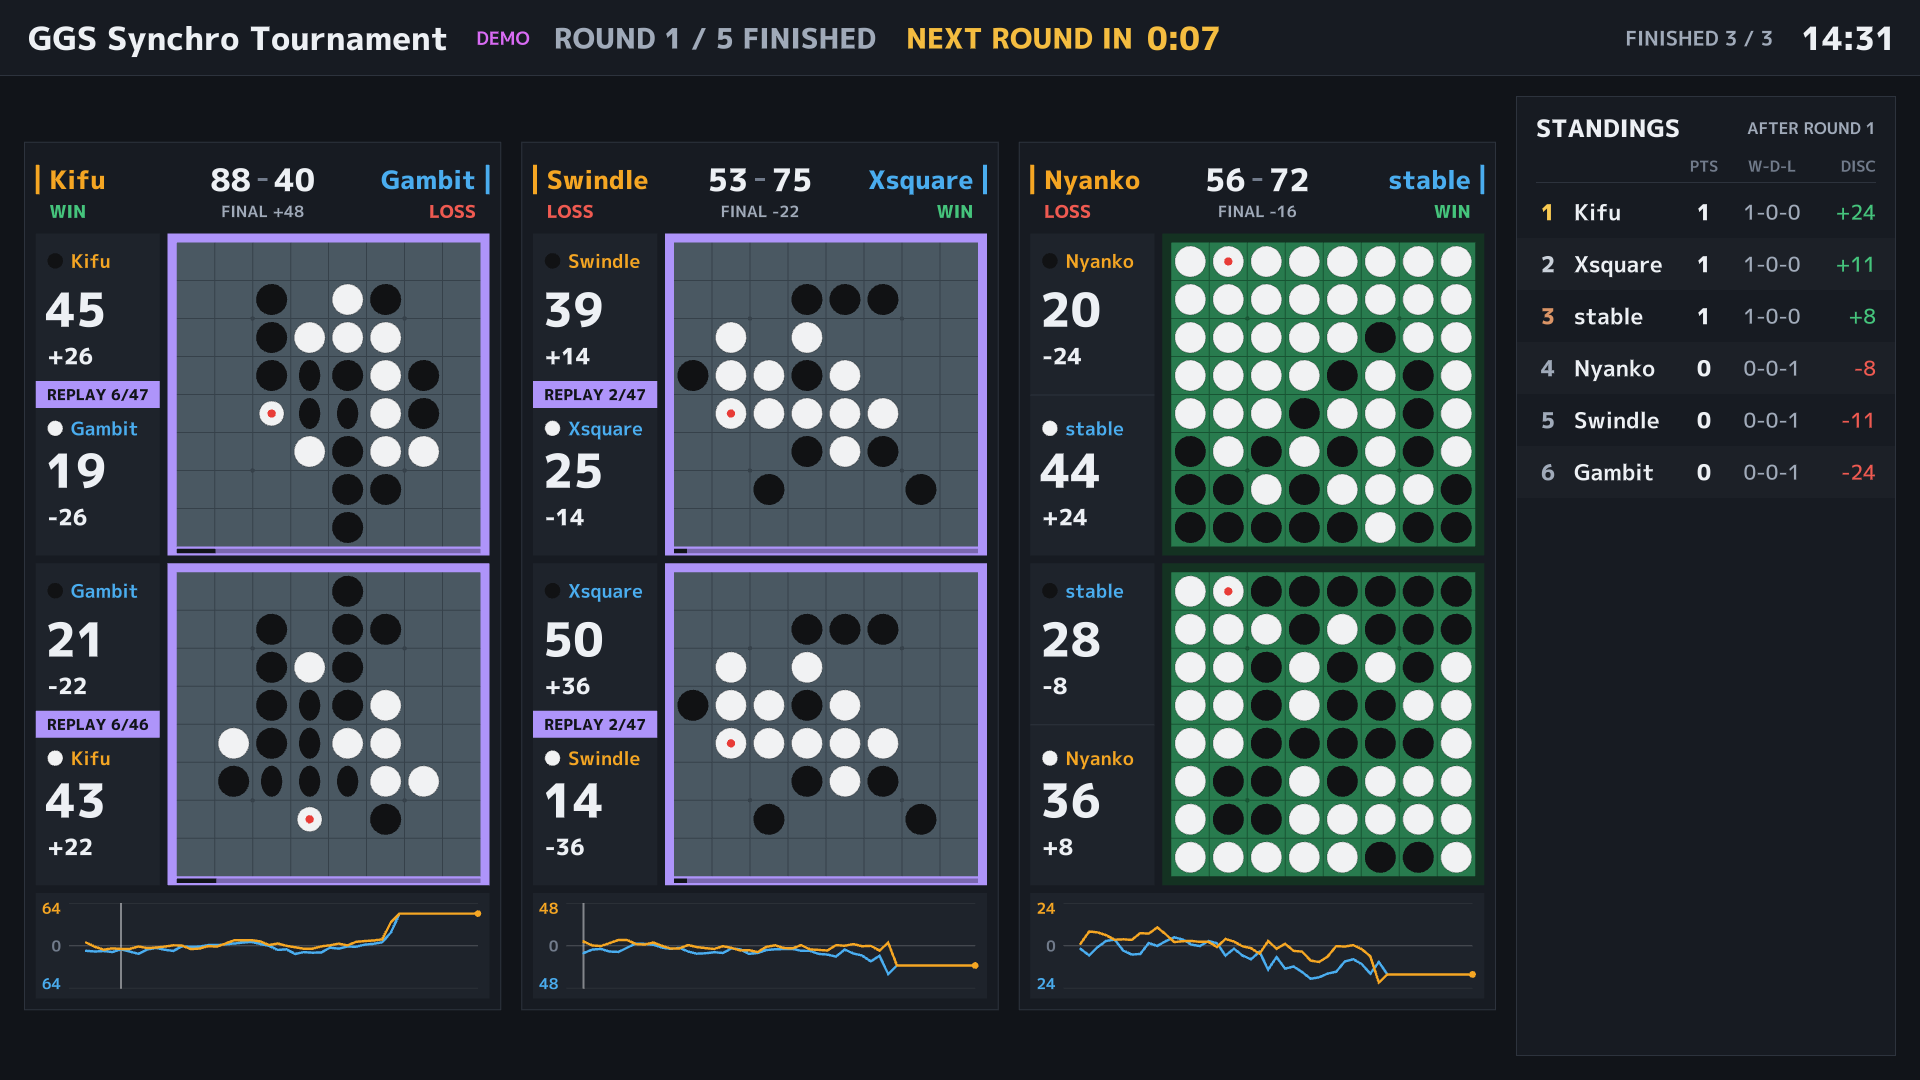
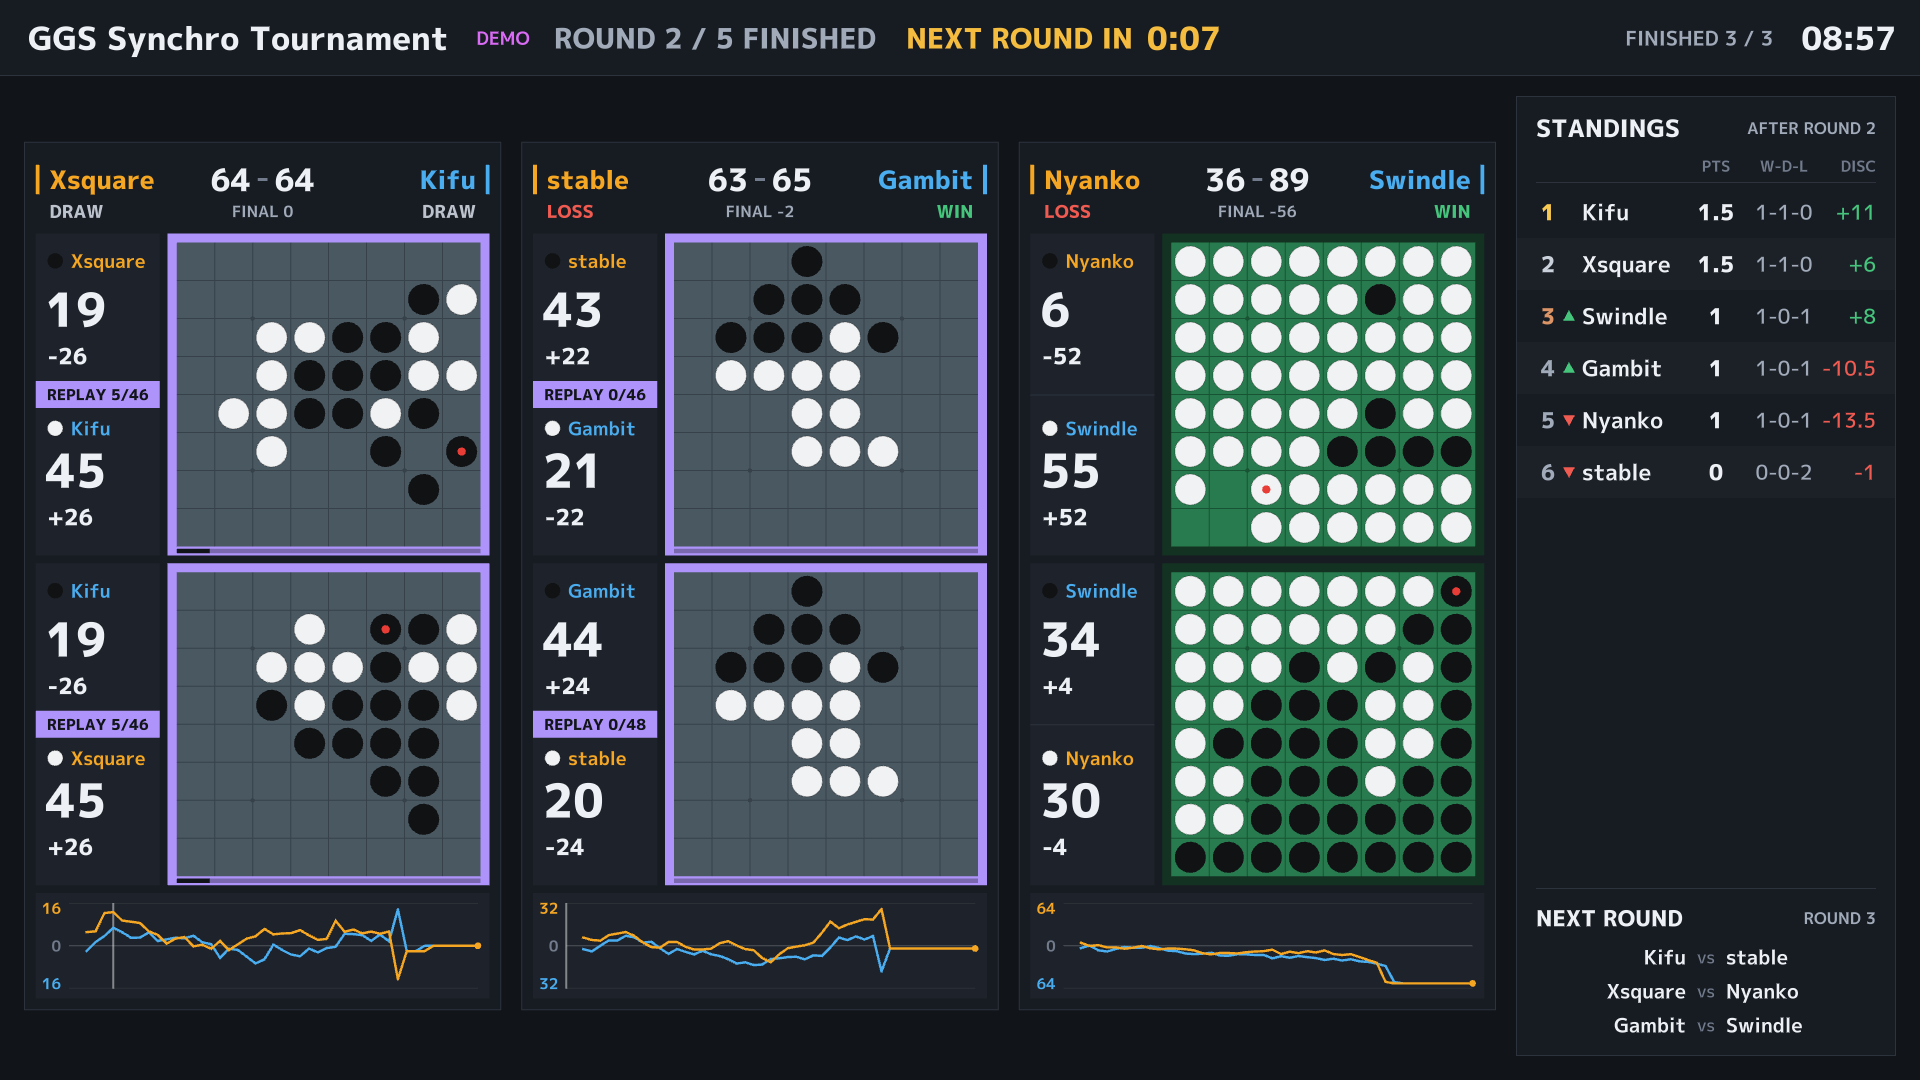
update README for the new features

diff --git a/README.md b/README.md
@@ -11,7 +11,9 @@ GGS (Generic Game Server) で行われるオセロのシンクロ戦トーナメ
 - Visual Studio で `GGS_Stream.sln` を開き、Release / x64 でビルドします（環境変数 `SIV3D_0_6_15` が必要）。
 - `App/` は `.gitignore` 対象です。Siv3D のプロジェクトテンプレートにある `App/`（`Resource.rc`、`icon.ico`、`engine/`、`dll/`）を置いてください。ビルドすると `App/GGS_Stream.exe` がコピーされます。
 
-## 設定 (`App/info.txt`)
+## 設定
+
+### `App/info.txt`（必須）
 
 ```
 GGSのユーザー名
@@ -20,38 +22,69 @@ GGSのユーザー名
 配信タイトル（省略可）
 ```
 
+### `App/names.txt`（任意）
+
+GGS のログイン名を、画面に出す名前に置き換えます（日本語も可）。1 行に `ログイン名 表示名` を書きます。`#` で始まる行はコメントです。
+
+```
+# ログイン名 表示名
+egrcd     Egaroucid
+foo123    山田（チームA）
+```
+
+表示しきれない長い名前は「…」で省略されます。
+
 ## 起動オプション
 
 | オプション | 内容 |
 | --- | --- |
 | `--demo` | GGS に接続せず、内蔵のシミュレータで大会を再現する（動作確認用） |
 | `--players N` | デモの参加人数（偶数、既定 6） |
-| `--speed X` | デモの進行速度（既定 3） |
+| `--replay LOG` | GGS に接続せず、`App/logs/` に保存された通信ログを再生する |
+| `--tournament ID` | トーナメント ID（info.txt より優先。info.txt なしで `--replay` するときに使う） |
+| `--speed X` | デモ・ログ再生の速度（既定はデモ 3、ログ再生 1） |
 | `--seed N` | デモの乱数シード |
 | `--title TEXT` | 配信タイトル（info.txt より優先） |
 | `--fullscreen` | フルスクリーンで起動 |
+| `--focus N` | N 組目だけを拡大表示した状態で起動 |
+| `--sound` | 着手音を ON にして起動 |
 | `--capture PREFIX --capture-at 5,30` | 指定秒数にスクリーンショットを `PREFIX_<秒>.png` に保存 |
 | `--quit-after SEC` | 指定秒数で終了 |
 
-キー操作: `F1` デバッグ表示（接続状態・観戦状況・ログ）、`F11` フルスクリーン切り替え。誤操作防止のため `Esc` では終了しません。
+## キー操作
+
+| キー | 内容 |
+| --- | --- |
+| `1`〜`9` | その組だけを大きく表示（左上から順に 1, 2, …） |
+| `0` | 全組の表示に戻る（大会終了後は表彰台） |
+| `S` | 着手音の ON / OFF（切り替えるとヘッダー右に数秒表示） |
+| `F1` | デバッグ表示（接続状態・観戦状況・ログ） |
+| `F11` | フルスクリーン切り替え |
+
+誤操作防止のため `Esc` では終了しません。新しいラウンドが始まると拡大表示は解除されます。
 
 画面は 1920x1080 固定で描画し、ウィンドウサイズに合わせて拡大縮小します（OBS のウィンドウキャプチャ向け）。
 
 ## 画面の見方
 
-- 参加人数（偶数）に応じて、1 ラウンドの組数分のカードを自動で並べます。盤が最も大きくなるレイアウト（縦・横、プレイヤー情報を盤の横に置くか上に置くか）を自動で選びます。
+- 参加人数（偶数）に応じて、1 ラウンドの組数分のカードを自動で並べます。盤が最も大きくなるレイアウト（縦・横、プレイヤー情報を盤の横に置くか上に置くか）を自動で選びます。盤が大きいときは座標（a〜h, 1〜8）も表示します。
 - カード上部: 2 人の名前（左がオレンジ、右が青）と、2 局の石数の合計。組の 2 局が終わると勝敗と合計石差を表示します。
 - 各盤: 黒番・白番の名前、石数、持ち時間（手番側のみ減っていきます）。終局すると各局のスコア（石差）を表示します。勝敗は組の 2 局の合計で決まるので、各局には勝ち負けを表示せず、カード上部にだけ表示します。
 - 評価値グラフ: 各プレイヤーが 2 局で送ってきた評価値の合計です。上半分が左のプレイヤー優勢を表し、オレンジ線が左のプレイヤー自身の見積もり、青線が右のプレイヤーの見積もり（左視点に反転）です。
   - パスした手と、合法手が 1 つしかない局面での手の評価値は使わず、直前の値を引き継ぎます。
   - 終局後はその局の確定石差を使います。
 - リプレイ: 組の 2 局が両方終わると、少し後から 2 局を並べてリプレイします。紫の枠・グレーの盤・`REPLAY 手数/総手数` の表示で、対局中の盤と区別できるようにしています。グラフ上には再生位置の縦線が出ます。
-- 休憩中: ラウンドが終わると次のラウンドまでのカウントダウンを表示します（トーナメントの設定から取得し、取れなければ 60 秒）。
-- 右側: 順位表（勝ち点、勝-分-負、平均石差）。
+- 休憩中: ラウンドが終わると次のラウンドまでのカウントダウンを表示します（トーナメントの設定から取得し、取れなければ 60 秒）。順位表の下に次のラウンドの組み合わせも表示します。
+- 右側: 順位表（勝ち点、勝-分-負、平均石差）。ラウンド開始時から順位が上がった人に ▲、下がった人に ▼ を付けます。
+- 大会が終わると、上位 3 人の表彰台を表示します。
 
-ラウンド終了後の休憩中（リプレイと次ラウンドまでのカウントダウン）。右の組は終局直後のため、リプレイ前の最終局面を表示しています:
+ラウンド終了後の休憩中（組ごとのリプレイ、次ラウンドまでのカウントダウン、順位の上下、次ラウンドの組み合わせ）。右の組は終局直後のため、リプレイ前の最終局面を表示しています:
 
-![リプレイとカウントダウン](docs/images/replay.png)
+![休憩中の画面](docs/images/replay.png)
+
+大会終了後の表彰台:
+
+![表彰台](docs/images/podium.png)
 
 10 人大会（5 組）では、プレイヤー情報を盤の上に置くレイアウトになります:
 
@@ -60,18 +93,34 @@ GGSのユーザー名
 ## GGS とのやりとり
 
 - ログイン後に `ms /os`、`ts client -`、`ts vt100 -`、`chann + .tourney`、`chann + /os` を送ります。
-- `t /td r <id>`（順位、30 秒ごと。キープアライブを兼ねる）、`t /td f <id>`（ラウンド数・休憩時間など）、`ts match`（対局一覧、全組がそろうまで）、`tell /os watch + .<id>`（観戦、盤面が届くまで再送）を必要に応じて送ります。
+- 必要に応じて次のコマンドを送ります。
+  - `t /td r <id>`（順位、30 秒ごと。キープアライブを兼ねる）
+  - `t /td f <id>`（ラウンド数・休憩時間など）
+  - `t /td sr <id> <ラウンド>`（次のラウンドの組み合わせ、ラウンド終了時）
+  - `ts match`（対局一覧、全組がそろうまで）
+  - `tell /os watch + .<id>`（観戦、盤面が届くまで再送）
+- 順位などの表の行は、先頭に `|` が付いていても付いていなくても読み取れます。
 - 両プレイヤーがトーナメント参加者であるシンクロ戦だけを表示します。
 - 切断されたら自動で再接続し、観戦をやり直します。
-- 送受信ログは `App/logs/` に保存されます（パスワードは伏せ字）。
+
+## ログと再生
+
+送受信ログは `App/logs/ggs_stream_<日時>.log` に保存されます（パスワードは伏せ字）。本番で表示がおかしかったときは、そのログを `--replay` で再生すると、同じ状況を手元で再現できます。
+
+```
+GGS_Stream.exe --replay logs/ggs_stream_20261010-130000.log --speed 10
+```
+
+ログ再生中はヘッダーに `LOG REPLAY` と表示されます。
 
 ## ソース構成
 
 | ファイル | 内容 |
 | --- | --- |
-| `Main.cpp` | 設定の読み込み、メインループ |
+| `Main.cpp` | 設定の読み込み、メインループ、キー操作 |
 | `ggs_protocol.hpp` | GGS のメッセージの区切りとパース |
 | `ggs_net.hpp` | GGS への接続（専用スレッド、再接続）とデモ用の入力源 |
+| `log_replay.hpp` | 通信ログの再生 |
 | `stream_model.hpp` | 大会・組・対局の状態管理、評価値の集計、リプレイ |
 | `stream_view.hpp` | 描画 |
 | `demo_server.hpp` | オフラインのシミュレータ（GGS と同じ書式のテキストを生成） |
@@ -80,7 +129,7 @@ GGSのユーザー名
 
 ## テスト
 
-`tests/protocol_test.cpp` はパーサ・状態管理・シミュレータのテストです（Siv3D 不要）。x64 Native Tools Command Prompt で:
+`tests/protocol_test.cpp` はパーサ・状態管理・シミュレータ・ログ再生のテストです（Siv3D 不要）。x64 Native Tools Command Prompt で:
 
 ```
 cd tests
